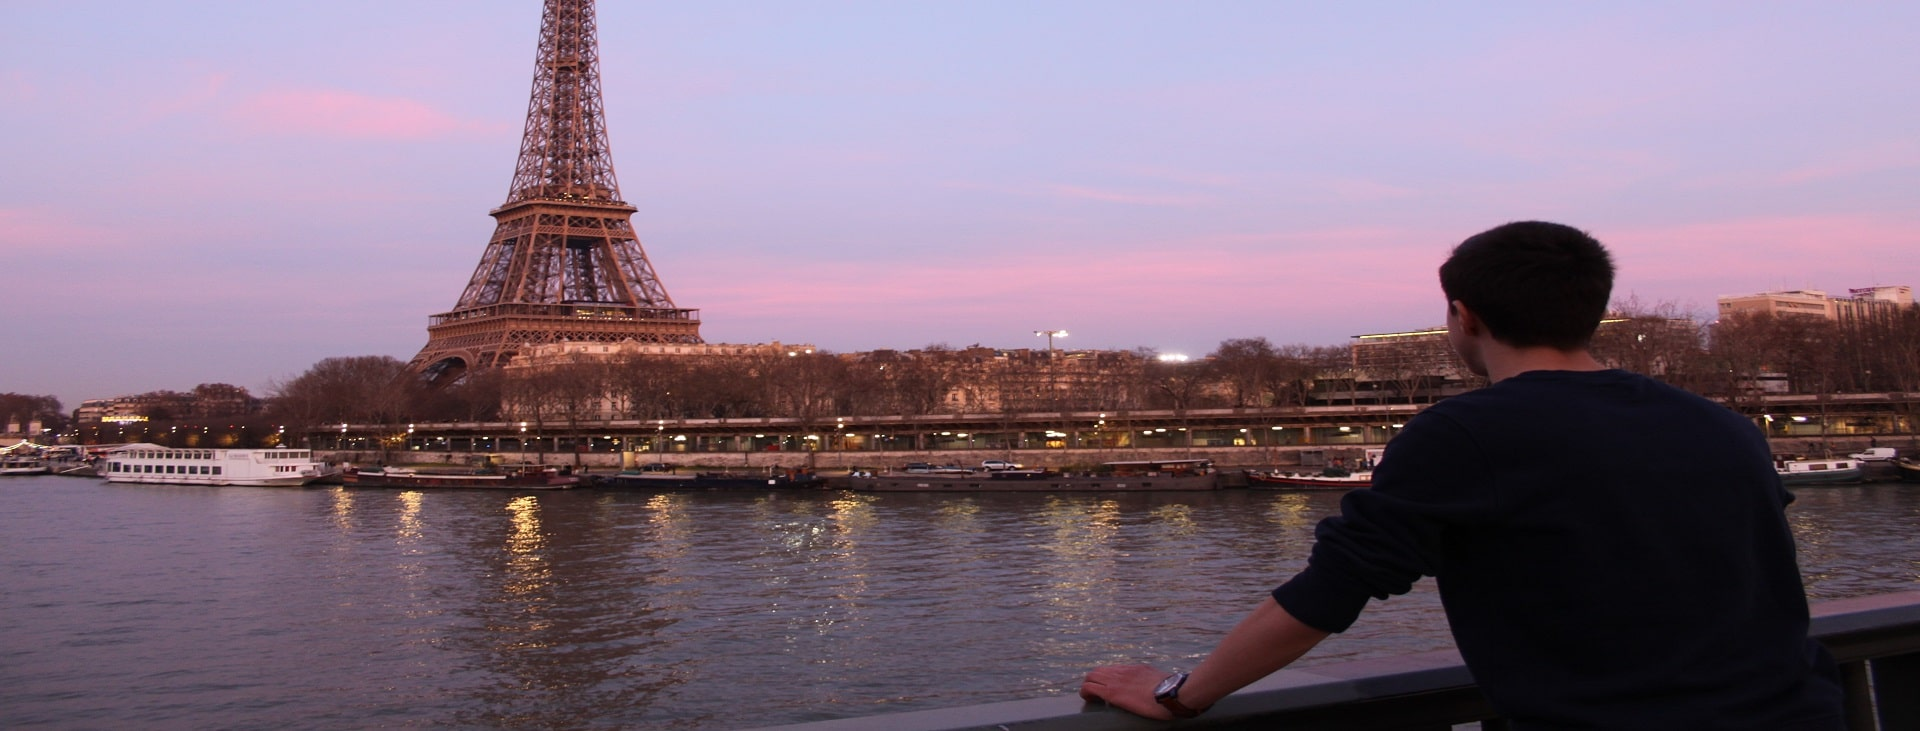
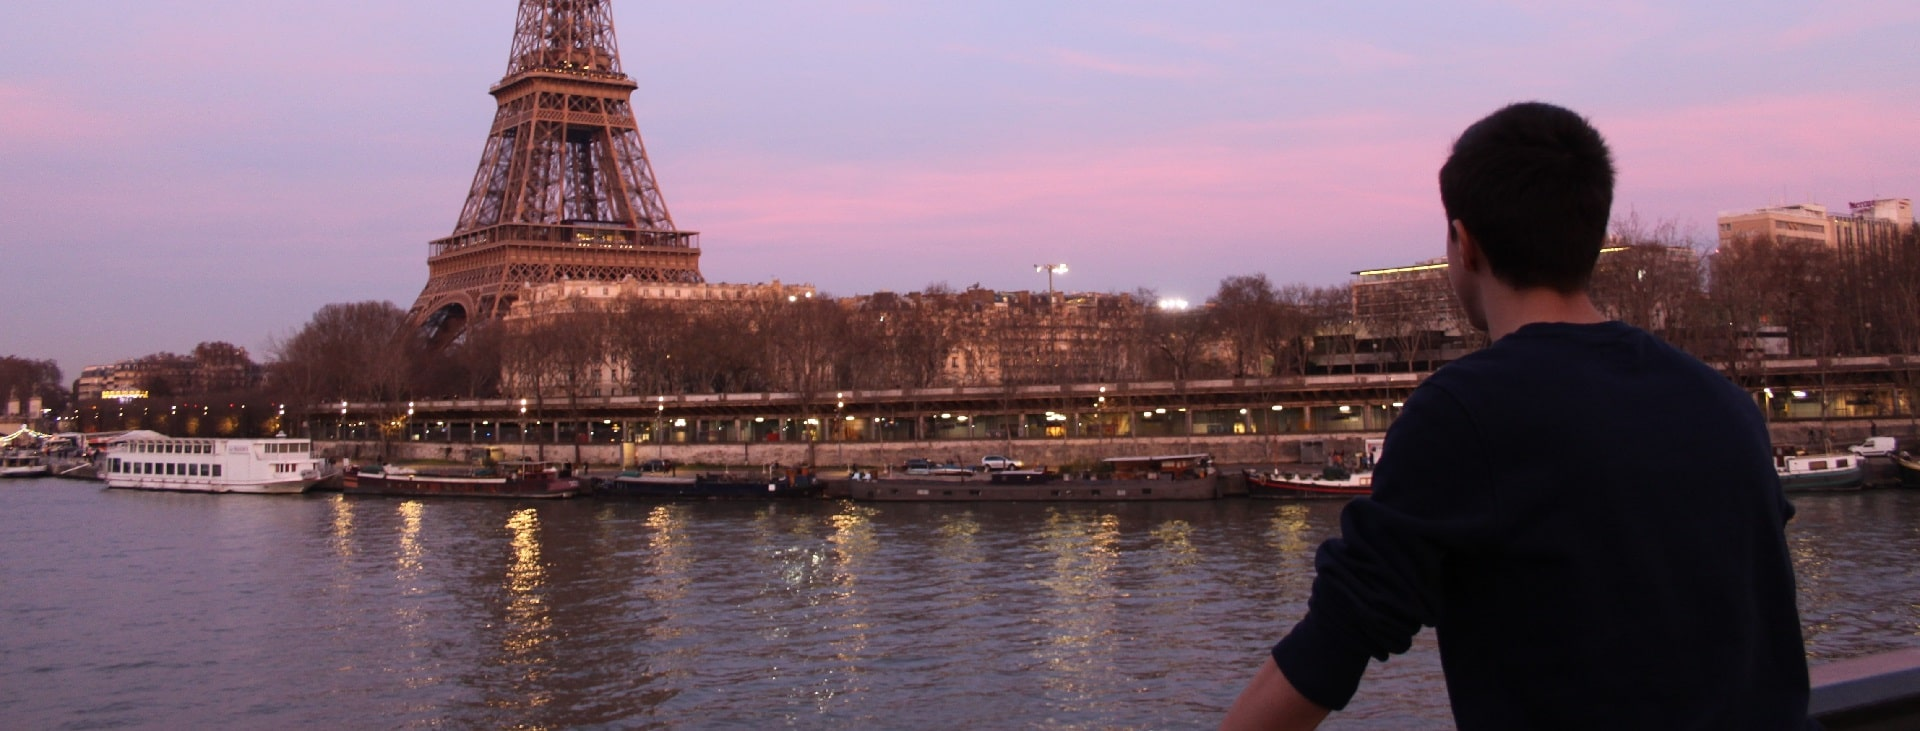
Changement images étirées projet

diff --git a/src/APropos/APropos.js b/src/APropos/APropos.js
@@ -29,7 +29,7 @@ class APropos extends Component{
             </div>
             <div className="content_APropos">
                 <h1>Premières idées</h1>
-                <h1>Mon parcours</h1>
+                {/*<h1>Mon parcours</h1>
                 <h1>L'informatique pour moi</h1>
                 <h1>Le patinage, ma passion</h1>
                 <h1>Ce que j'aime</h1>
@@ -37,7 +37,7 @@ class APropos extends Component{
             Je veux changer le monde, je veux le rendre meilleur you know ?<br/>
             Peut etre faire plusieurs rubriques genre mon parcours, ma personnalité, ce que j'aime, l'info il faut laisser une grosse place à l'info<br/>
             Premier langage que j'ai touché est le VB.NET pour faire un programme enervant pour le prof (cd)<br/>
-            Lorem ipsum dolor sit amet, consectetur adipiscing elit. Sed vehicula tempus lorem, et convallis purus cursus non. Vestibulum lobortis condimentum nunc, sit amet commodo enim laoreet vel. Cras sit amet dignissim urna. Aliquam sodales, lacus quis aliquet gravida, purus turpis feugiat nunc, vitae tincidunt magna risus quis massa. Proin accumsan cursus tortor nec hendrerit. Mauris eget molestie massa. Suspendisse sagittis lacus et quam tempor egestas. Aliquam eget orci id erat posuere gravida. In scelerisque ante at mauris vehicula pretium. Maecenas ante justo, imperdiet iaculis urna ac, vulputate ultrices massa. Aliquam nulla sapien, dapibus at neque dictum, volutpat interdum purus. In vehicula facilisis erat. Nulla pulvinar eros et leo bibendum, ac semper metus convallis. Nam quis euismod elit, id mollis mauris. Cras ut iaculis ipsum.
+                */}Lorem ipsum dolor sit amet, consectetur adipiscing elit. Sed vehicula tempus lorem, et convallis purus cursus non. Vestibulum lobortis condimentum nunc, sit amet commodo enim laoreet vel. Cras sit amet dignissim urna. Aliquam sodales, lacus quis aliquet gravida, purus turpis feugiat nunc, vitae tincidunt magna risus quis massa. Proin accumsan cursus tortor nec hendrerit. Mauris eget molestie massa. Suspendisse sagittis lacus et quam tempor egestas. Aliquam eget orci id erat posuere gravida. In scelerisque ante at mauris vehicula pretium. Maecenas ante justo, imperdiet iaculis urna ac, vulputate ultrices massa. Aliquam nulla sapien, dapibus at neque dictum, volutpat interdum purus. In vehicula facilisis erat. Nulla pulvinar eros et leo bibendum, ac semper metus convallis. Nam quis euismod elit, id mollis mauris. Cras ut iaculis ipsum.
 
 Quisque justo libero, ultricies vel magna congue, varius suscipit est. Suspendisse sed est ac libero hendrerit ullamcorper ut ut ipsum. Maecenas id tempor felis, at viverra justo. Sed laoreet fringilla posuere. Donec eget nisi tempus nulla pellentesque vulputate. Morbi vestibulum elit id imperdiet venenatis. Nulla facilisi. Duis mollis elit eget justo auctor auctor. Ut sed tellus ut risus tristique interdum eget sit amet odio.
 

diff --git a/src/Menu/Menu.js b/src/Menu/Menu.js
@@ -29,7 +29,7 @@ class Menu extends Component{
                             </div>
                         </li>
                     </NavLink>
-                    <NavLink to="/a-propos">
+                    <NavLink to="/"> {/*NavLink  to="/a-propos">*/}
                         <li datatype="A propos" className="li_Menu">
                             <div className={"a_Menu "+(this.state.hideMenu===2?"opacity1":(this.state.hideMenu!==0&&"opacity0"))}
                             onMouseOver={() => this.setState({hideMenu:2})}

diff --git a/src/App.js b/src/App.js
@@ -20,7 +20,7 @@ render(){
       <Router>
           <Switch>
             <Route path="/" exact><Accueil /></Route>
-            {/*<Route path="/a-propos"><APropos /></Route>*/}
+            <Route path="/a-propos"><APropos /></Route>
             <Route path="/test"><Test /></Route>
             <Route path="/menu"><Menu/></Route>
             <Route path="/projets"><Projets /></Route>
